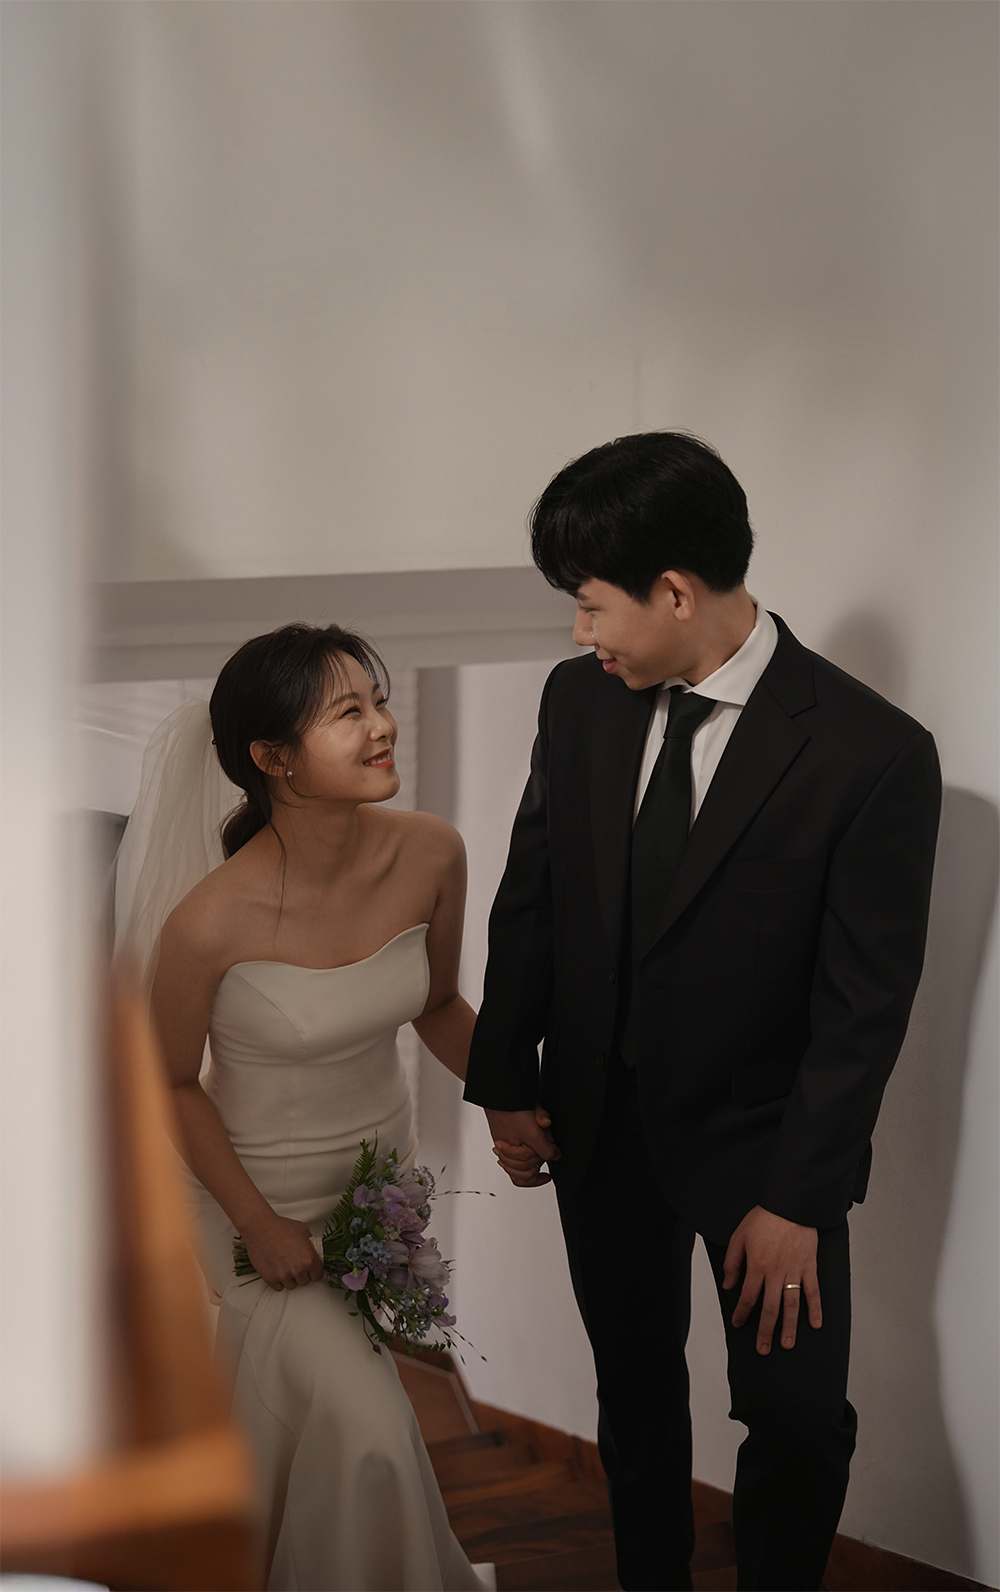
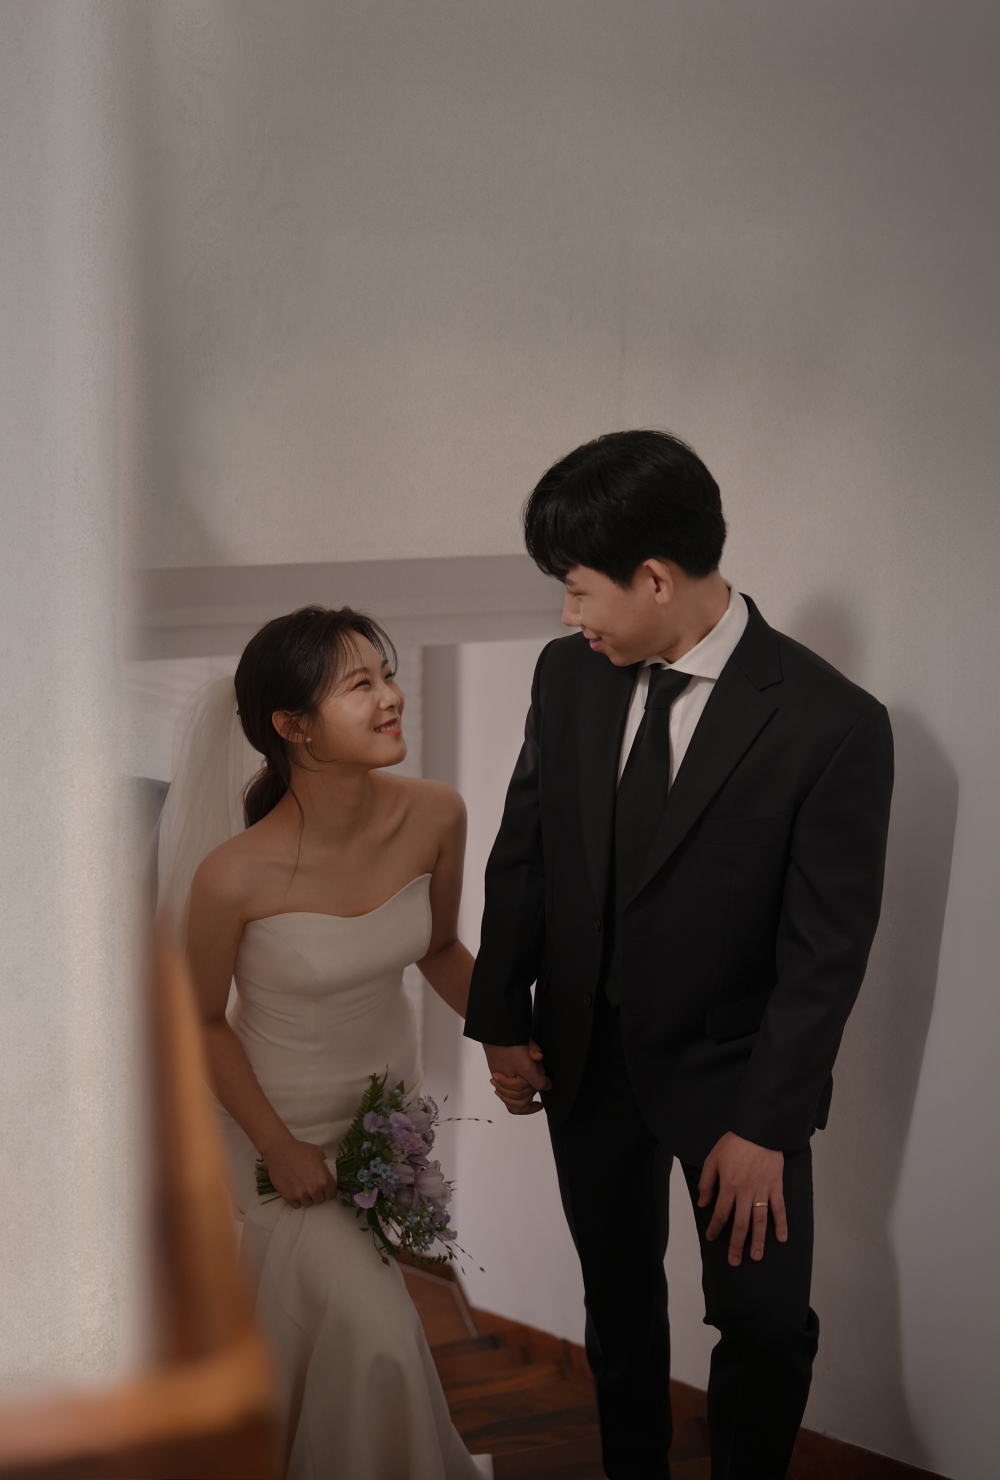
사진 수정 완료

diff --git a/index.html b/index.html
@@ -122,7 +122,7 @@
                         <div class="swiper-slide"><img src="images/studio/2894_Y_241116.jpg"></div>
                         <div class="swiper-slide"><img src="images/studio/2911_Y_241116.jpg"></div>
                         <div class="swiper-slide"><img src="images/studio/3088_Y_241116.jpg"></div>
-                        <!-- <div class="swiper-slide"><img src="images/studio/3560_Y_241116.jpg"></div> -->
+                        <div class="swiper-slide"><img src="images/studio/3560_Y_241116.jpg"></div>
                         <div class="swiper-slide"><img src="images/studio/3912_Y_241116.jpg"></div>
                         <div class="swiper-slide"><img src="images/studio/4010_Y_241116.jpg"></div>
                         <div class="swiper-slide"><img src="images/studio/4390_Y_241116.jpg"></div>
@@ -156,7 +156,7 @@
                         <div class="swiper-slide"><img src="images/studio/2894_Y_241116.jpg" style="border-radius: 0.4rem;"></div>
                         <div class="swiper-slide"><img src="images/studio/2911_Y_241116.jpg" style="border-radius: 0.4rem;"></div>
                         <div class="swiper-slide"><img src="images/studio/3088_Y_241116.jpg" style="border-radius: 0.4rem;"></div>
-                        <!-- <div class="swiper-slide"><img src="images/studio/3560_Y_241116.jpg" style="border-radius: 0.4rem;"></div> -->
+                        <div class="swiper-slide"><img src="images/studio/3560_Y_241116.jpg" style="border-radius: 0.4rem;"></div>
                         <div class="swiper-slide"><img src="images/studio/3912_Y_241116.jpg" style="border-radius: 0.4rem;"></div>
                         <div class="swiper-slide"><img src="images/studio/4010_Y_241116.jpg" style="border-radius: 0.4rem;"></div>
                         <div class="swiper-slide"><img src="images/studio/4390_Y_241116.jpg" style="border-radius: 0.4rem;"></div>
